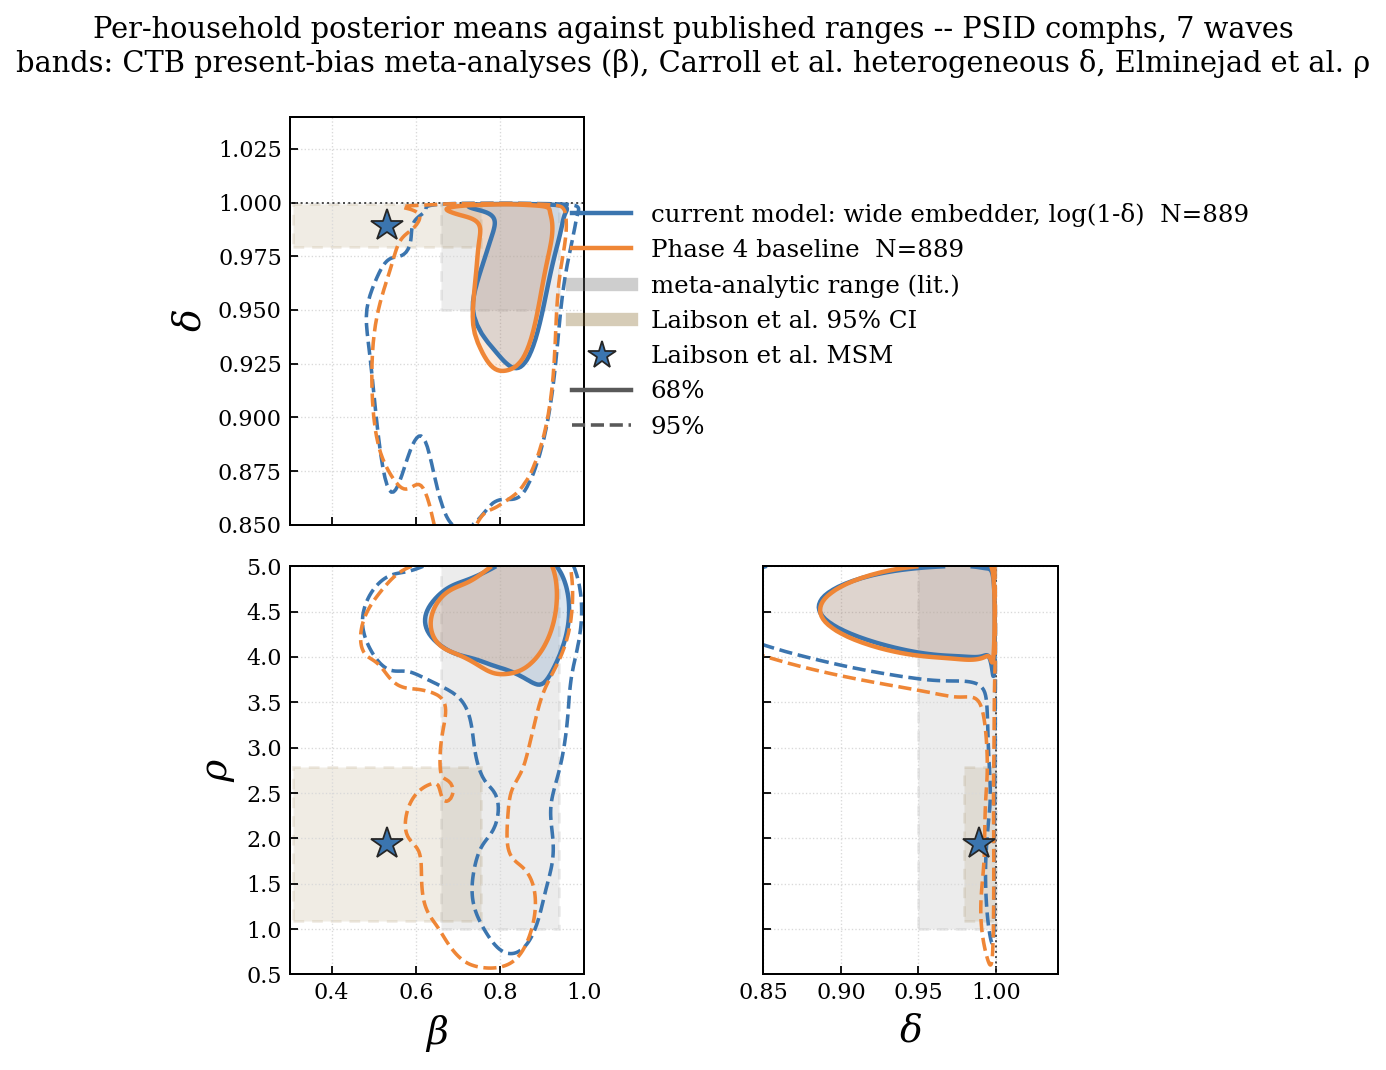
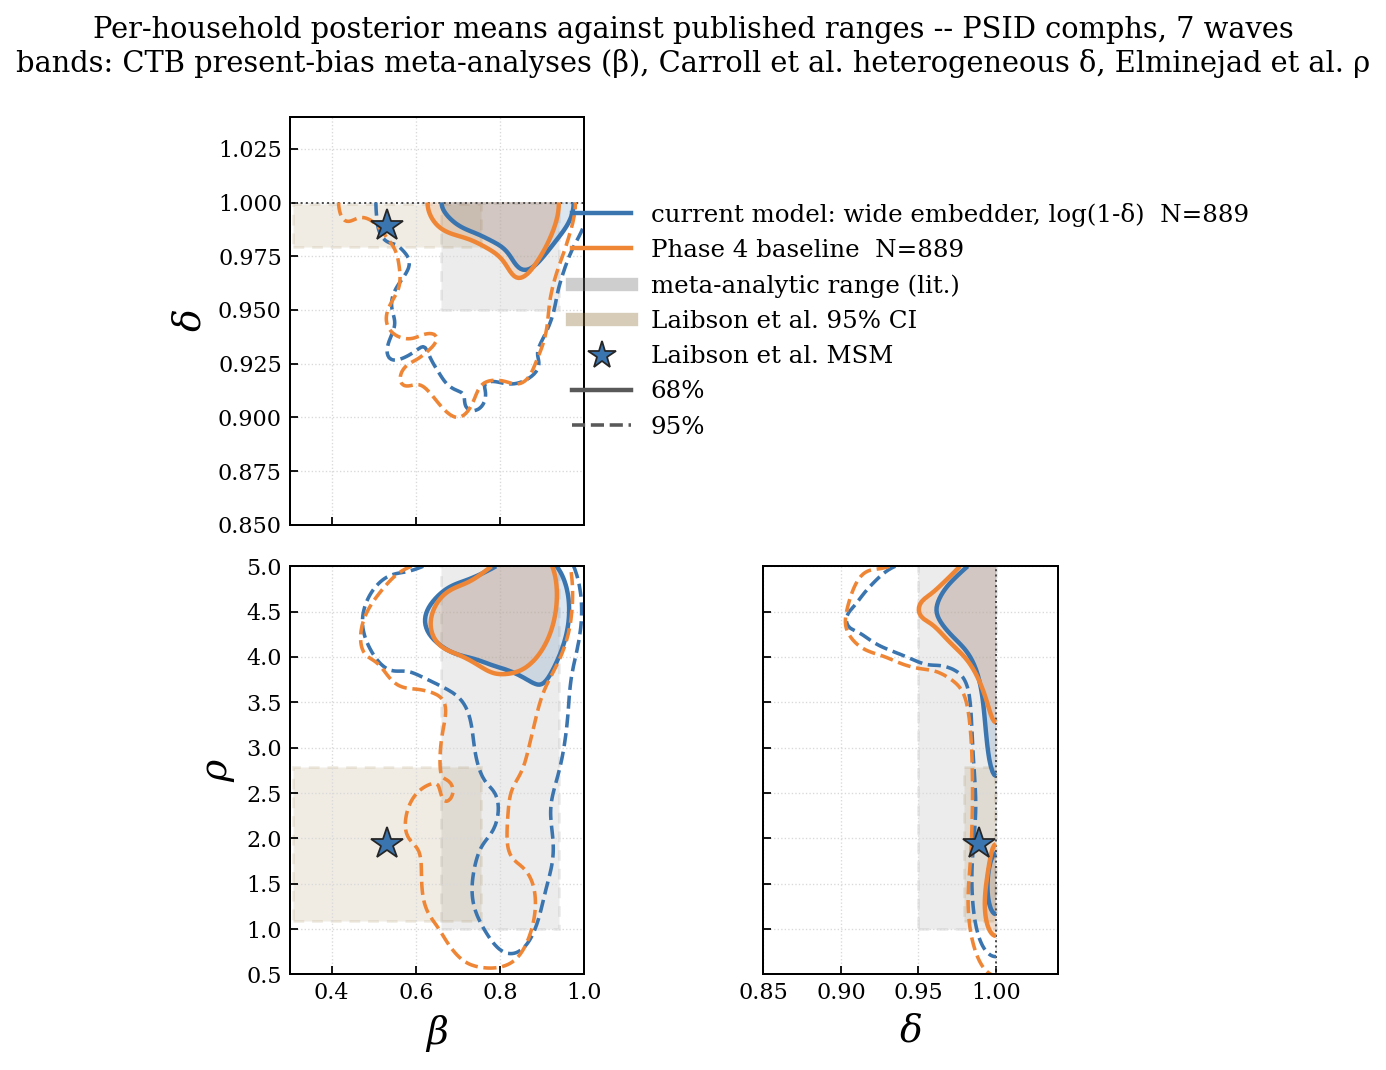
Replace log-space contour smoothing with reflection at the bound
The log(1-delta) smoothing of the previous commit closed the contours below
1 but, with one fixed bandwidth in u, made the kernel very wide in delta
away from the wall and dragged the 95% region to the bottom of the axis.

Reflection (Schuster 1985; Silverman 1986, sec. 2.10) is the classic
boundary correction instead: the KDE is fitted on the real points only and
evaluated at each grid point plus its mirror image across the bound, so mass
that would spill past delta = 1 is folded back. Fitting on points plus
mirrored copies would double the axis's spread and inflate the bandwidth, so
that is deliberately not what this does. Known limitation, documented: zero
slope is forced at the bound.

The 95% region returns to about delta 0.90, as in the unsmoothed original.
The 68% region still meets 1.00 where households genuinely pile against it,
and in the delta-rho panel it now includes a real cluster at delta > 0.995
and rho < 2.5 (74 households, 8.3%), which reflection counts at full
strength rather than half.

diff --git a/src/hh_npe/evaluation/plots.py b/src/hh_npe/evaluation/plots.py
@@ -38,52 +38,50 @@ def _hpd_levels(density: np.ndarray, probs=(0.68, 0.95)) -> list[float]:
     return [float(flat[np.searchsorted(csum, p)]) for p in probs][::-1]
 
 
-#: Smoothing coordinate for an axis bounded above by 1: u = log(1 - v). The
-#: grid runs to v = 1 - 1e-5, beyond which no posterior mean has been observed
-#: (max 0.99962); the mass past it is negligible and simply not drawn.
-_LOG1M = (lambda v: np.log(1.0 - v), lambda u: 1.0 - np.exp(u), 1e-5)
-
-
-def _axis_grid(lo, hi, n, log1m):
-    """Grid for one axis, uniform in the space the KDE is fitted in."""
-    if not log1m:
-        return np.linspace(lo, hi, n)
-    fwd, _inv, eps = _LOG1M
-    # Uniform in u, running from the low end of v up to v = 1 - eps.
-    return np.linspace(fwd(min(hi, 1.0 - eps)), fwd(lo), n)
-
-
 def _kde_grid(x: np.ndarray, y: np.ndarray, lo, hi, n: int = 140,
-              log1m=(False, False)):
-    """KDE on a grid, optionally fitted in log(1 - v) for either axis.
+              reflect=(False, False)):
+    """KDE on a grid, with optional reflection at an axis's upper bound.
 
-    With ``log1m`` set for an axis the grid, the fit AND the HPD level
-    computation all happen in ``u = log(1 - v)`` -- equal cells in u, so
-    ``_hpd_levels`` stays valid -- and only the returned coordinates are mapped
-    back to v for drawing. A region holding 68% of the mass holds 68% in any
-    coordinates, so the contours are the same credible regions; what changes is
-    that a Gaussian kernel no longer has to represent a hard wall at v = 1. In
-    v it cannot: households piled at 0.995-0.9996 are narrower than the kernel,
-    the smoothed density spills past 1, and a grid cut at 1 draws a flat contour
-    along the bound that no household produced.
+    Reflection (Schuster 1985; Silverman 1986, sec. 2.10) is the classic
+    boundary correction for a density on a bounded range. Near a hard wall a
+    Gaussian kernel spills mass past it; cutting the grid at the wall then draws
+    a contour along the bound that no data point produced. Here: households
+    piled at delta 0.995-0.9996, narrower than the kernel, against delta = 1.
+
+    The estimate is ``f(v) + f(2 * hi - v)``: the kernel is fitted on the REAL
+    points only and evaluated at each grid point and at its mirror image.
+    Fitting on points plus mirrored copies would instead double the axis's
+    spread and so inflate the automatically chosen bandwidth.
+
+    Known limitation: reflection forces zero slope at the bound, so where the
+    true density rises steeply into the wall the very edge is slightly
+    underestimated. The body and far tail are exactly as without it.
+
+    An earlier version smoothed in log(1 - v) instead (the transformation
+    method). It closed the contours below 1 but, with one fixed bandwidth in u,
+    made the kernel very wide in v away from the wall and dragged the 95%
+    region down to the bottom of the axis.
     """
     from scipy.stats import gaussian_kde
 
-    fwd, inv, _ = _LOG1M
-    gx = _axis_grid(lo[0], hi[0], n, log1m[0])
-    gy = _axis_grid(lo[1], hi[1], n, log1m[1])
-    X, Y = np.meshgrid(gx, gy)
-    xf = fwd(x) if log1m[0] else x
-    yf = fwd(y) if log1m[1] else y
+    X, Y = np.meshgrid(np.linspace(lo[0], hi[0], n), np.linspace(lo[1], hi[1], n))
     try:
-        k = gaussian_kde(np.vstack([xf, yf]))
+        k = gaussian_kde(np.vstack([x, y]))
     except np.linalg.LinAlgError:
         # A posterior that has collapsed to a point has a singular covariance;
         # nothing to contour, and silently drawing nothing is better than
         # aborting a whole figure over one degenerate series.
         return X, Y, None
-    Z = k(np.vstack([X.ravel(), Y.ravel()])).reshape(X.shape)
-    return (inv(X) if log1m[0] else X), (inv(Y) if log1m[1] else Y), Z
+    xs, ys = X.ravel(), Y.ravel()
+    mx, my = 2 * hi[0] - xs, 2 * hi[1] - ys
+    Z = k(np.vstack([xs, ys]))
+    if reflect[0]:
+        Z += k(np.vstack([mx, ys]))
+    if reflect[1]:
+        Z += k(np.vstack([xs, my]))
+    if reflect[0] and reflect[1]:
+        Z += k(np.vstack([mx, my]))
+    return X, Y, Z.reshape(X.shape)
 
 
 #: Muted hues for external ranges, chosen to sit behind the series palette.
@@ -99,7 +97,7 @@ def contour_corner(
     title: str | None = None,
     probs=(0.68, 0.95),
     axis_limits: tuple | None = None,
-    log1m_axes: tuple[str, ...] = (),
+    reflect_axes: tuple[str, ...] = (),
 ):
     """Lower-triangle pairwise contour plot of posterior samples.
 
@@ -128,11 +126,10 @@ def contour_corner(
         delta ~ 0.998 would otherwise draw contours above 1.00 that no
         household occupies. Use it to show that a bound is empty, not to
         pretend it is not there.
-    log1m_axes
-        Parameter names (e.g. ``("delta",)``) whose density is smoothed in
-        ``log(1 - v)`` rather than ``v``. For an axis with a hard wall at 1 that
-        the posterior piles against; see ``_kde_grid``. Requires every sample on
-        that axis to be strictly below 1.
+    reflect_axes
+        Parameter names (e.g. ``("delta",)``) whose density is reflected at the
+        box's upper bound, so a pile of samples against a hard wall does not
+        draw a contour along the wall. See ``_kde_grid``.
     """
     import matplotlib
     matplotlib.use("Agg")
@@ -166,11 +163,9 @@ def contour_corner(
                     ls=(0, (4, 3)), zorder=0))
         for c, (label, s) in zip(PALETTE, series.items()):
             s = np.asarray(s)
-            lm = (names[i] in log1m_axes, names[j] in log1m_axes)
-            if any(lm) and (s[:, [k for k, f in zip((i, j), lm) if f]] >= 1).any():
-                raise ValueError("log1m_axes needs samples strictly below 1")
             X, Y, Z = _kde_grid(s[:, i], s[:, j], (lo[i], lo[j]), (hi[i], hi[j]),
-                                log1m=lm)
+                                reflect=(names[i] in reflect_axes,
+                                         names[j] in reflect_axes))
             if Z is None:
                 continue
             lv = _hpd_levels(Z, probs)

diff --git a/scripts/plot_adopted_posterior.py b/scripts/plot_adopted_posterior.py
@@ -75,7 +75,7 @@ def main() -> None:
         bands={"meta-analytic range (lit.)": META,
                "Laibson et al. 95% CI": laibson_ci()},
         path=args.out,
-        log1m_axes=("delta",),
+        reflect_axes=("delta",),
         axis_limits=(PHASE3.low,
                      np.where(np.array(PHASE3.names) == "delta",
                               args.delta_top, PHASE3.high)),
